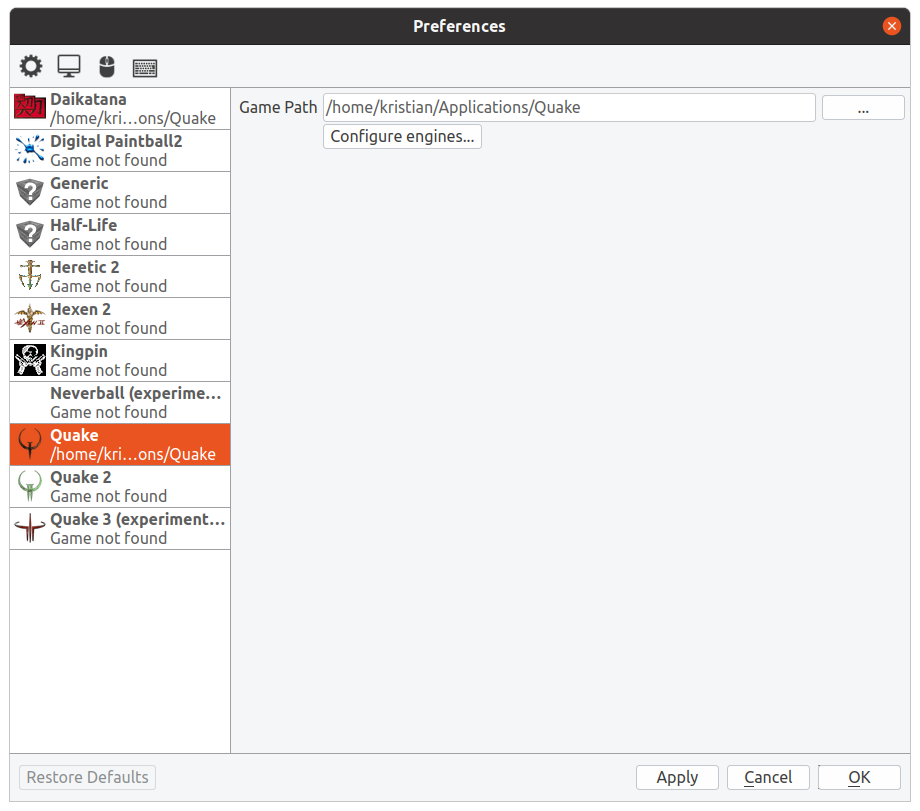
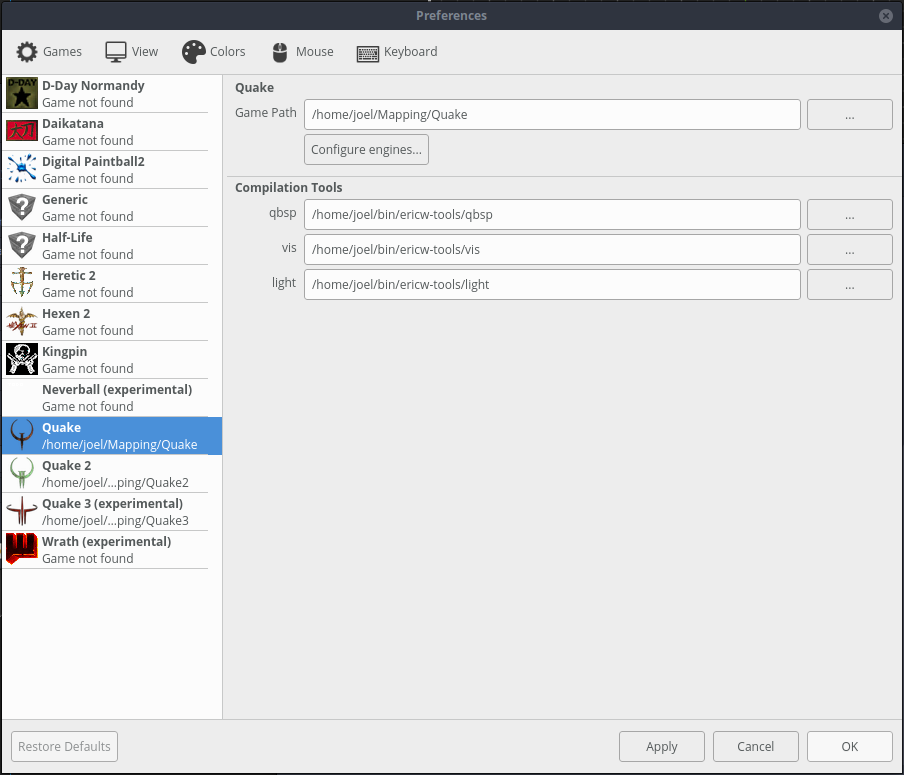
deploy: TrenchBroom/TrenchBroom@a958a758d5586647bc228e71c0e300f5266d413c

diff --git a/latest/index.html b/latest/index.html
@@ -85,7 +85,7 @@
 </nav>
 <main id="content">
 <aside id="content_version">
-<p><span><strong>Version:</strong> 0000.0</span><span><strong>Build:</strong> v0000.0 Release</span></p>
+<p><span><strong>Version:</strong> 2021.1</span><span><strong>Build:</strong> v2021.1-RC3 Release</span></p>
 </aside>
 <h1 id="introduction">Introduction</h1>
 <p>TrenchBroom is a level editing program for brush-based game engines such as Quake, Quake 2, and Hexen 2. TrenchBroom is easy to use and provides many simple and advanced tools to create complex and interesting levels with ease. This document contains the manual for TrenchBroom. Reading this document will teach you how to use TrenchBroom and how to use its advanced features.</p>
@@ -1441,6 +1441,13 @@ p1*--v1---&gt;*p3</code></pre>
 <img src="images/GameEngineDialog.png" alt="Game Engine Configuration Dialog (Mac OS X)" /><figcaption>Game Engine Configuration Dialog (Mac OS X)</figcaption>
 </figure>
 <p>In this dialog, you can add a game engine profile by clicking on the '+' button below the profile list on the left, and you can delete the selected profile by clicking on the '-' button. To the right of the list, you can edit the details of the selected game engine profile, specifically its name and path. Similar to the game path, if you edit the engine path manually, you have to apply the changes by pressing <script>print_key("Return");</script> while in the path text box. Click <a href="#launching_game_engines">here</a> to find out how to launch game engines from within TrenchBroom.</p>
+<p>For some game configurations (such as for Quake, shown above) you can also optionally enter paths for a set of compilation tools. If you do, then the name shown to the left of the path can be used as a variable in your <a href="#compiling_maps">compilation profiles</a> for this game. Wherever that variable occurs, the path specified here will be used. For example if your path to the <code>qbsp</code> tool is <code>C:\mapping\ericw-tools-v0.18.1-win64\bin\qbsp.exe</code>, and you set that path here... then in your compilation profiles you can enter <code>${qbsp}</code> wherever you need to refer to that whole qbsp.exe path.</p>
+<p>The benefits of specifying your tool paths here (if the game configuration allows) are:</p>
+<ul>
+<li>It will be easier to create, edit, and share your compilation profiles.</li>
+<li>If your tool paths need to be changed, you only have to change them here.</li>
+</ul>
+<p>So in the example above, if you wanted to try a later version of ericw-tools that are located in a different folder like <code>C:\mapping\ericw-tools-v0.19-win64\bin</code>, then you would only need to change the paths in this dialog. You wouldn't need to edit all of your compilation profiles.</p>
 <h2 id="view_layout_and_rendering">View Layout and Rendering</h2>
 <figure>
 <img src="images/ViewPreferences.png" alt="View Preferences (macOS)" /><figcaption>View Preferences (macOS)</figcaption>
@@ -1618,7 +1625,7 @@ p1*--v1---&gt;*p3</code></pre>
 </table>
 </dd>
 <dt>Run Tool</dt>
-<dd><p>Runs an external tool and captures its output.</p>
+<dd><p>Runs an external tool and captures its output. Note that for the Tool parameter's value, you can use a compilation tool variable defined in the <a href="#game_configuration">game configuration</a>, as discussed below.</p>
 <table>
 <thead>
 <tr class="header">
@@ -1712,6 +1719,10 @@ p1*--v1---&gt;*p3</code></pre>
 </tr>
 </tbody>
 </table>
+<p>If the <a href="#game_configuration">game configuration</a> for the current game includes compilation tools, then the names of those tools are also available as variables in the Tool scope. The following screenshot is a section of a compilation profile showing the use of such variables.</p>
+<figure>
+<img src="images/CompilationDialogToolVars.png" alt="Compilation Dialog Section, with Tool Variables (Ubuntu Linux)" /><figcaption>Compilation Dialog Section, with Tool Variables (Ubuntu Linux)</figcaption>
+</figure>
 <p>It is recommended to use the following general process for compiling maps and to adapt it to your specified needs:</p>
 <ol type="1">
 <li>Set the working directory to <code>${MAP_DIR_PATH}</code>.</li>
@@ -2957,6 +2968,7 @@ one point per second
 </ul></li>
 <li><strong>Tags</strong> to attach additional information to faces or brushes in the editor, e.g. whether a face is detail or hint. (optional)</li>
 <li><strong>Face attributes</strong> to specify which additional attributes to allow on brush faces (optional)</li>
+<li><strong>Compilation tools</strong> that can have their paths configured by the user (optional)</li>
 </ul>
 <p>The game configuration is an <a href="#expression_language">expression language</a> map with a specific structure, which is explained using an example.</p>
 <pre><code>{
@@ -3044,15 +3056,21 @@ one point per second
                 &quot;description&quot;: &quot;The brush is water&quot;
             }
         ]
-    }
+    },
+    &quot;compilationTools&quot;: [
+        { &quot;name&quot;: &quot;qbsp&quot; },
+        { &quot;name&quot;: &quot;vis&quot; },
+        { &quot;name&quot;: &quot;light&quot; }
+    ]
 }</code></pre>
 <h4 id="versions">Versions</h4>
 <p>The game configuration files are versioned. Whenever a breaking change to the game configuration format is introduced, the version number will increase and TrenchBroom will reject the old format with an error message.</p>
 <p><strong>Current Versions</strong></p>
-<p>TrenchBroom currently supports game config versions 3 and 4. Version 4 is identical to version 3 with two exceptions:</p>
+<p>TrenchBroom currently supports game config versions 3 and 4. Version 4 has the following changes from version 3:</p>
 <ul>
 <li>Version 4 adds support for the <code>unused</code> key in surface flags and content flags; this key does not exist in version 3.</li>
 <li>Version 4 adds support for specifying a list of values for the <code>pattern</code> key in surfaceparm-type smart tags; in version 3 only a single value is allowed.</li>
+<li>Version 4 adds the optional <code>compilationTools</code> key.</li>
 </ul>
 <p><strong>Migrating from Version 2</strong></p>
 <p>Version 3 deprecated the <code>brushtypes</code> key in favor of the <code>tags</code> key, but the contents are very similar. The value of the <code>brushtypes</code> key is an array of type matchers. The following brush type matchers are supported in version 2:</p>
@@ -3456,6 +3474,14 @@ one point per second
 <p>List values must be given in array format, e.g. a default scale of 0.5 along each axis would be specified within the <code>defaults</code> object as: <code>&quot;scale&quot;: [0.5, 0.5]</code></p>
 <p>The flag names specified for <code>surfaceFlags</code> or <code>surfaceContents</code> must correspond to the <code>name</code> value for existing flags defined in the <code>surfaceflags</code> or <code>contentflags</code> (respectively) of the <code>faceattribs</code> object.</p>
 <p>The <code>color</code> value must be a string of the form &quot;R G B&quot; or &quot;R G B A&quot;. R G B and A are each a floating-point number from 0.0 to 1.0. If A is omitted it is assumed to be 1.0.</p>
+<h4 id="compilation-tools">Compilation Tools</h4>
+<p>The optional <code>compilationTools</code> list identifies tool names that will appear in the <a href="#game_configuration">game configuration dialog</a>, allowing the user to associate these names with paths to tool executables. Such a name can be used as a variable in this game's <a href="#compiling_maps">compilation profiles</a> to represent the associated path.</p>
+<p>Each element in the list is just an object with a <code>name</code> key. An example from the Quake game configuration that defines three compilation tools:</p>
+<pre><code>&quot;compilationTools&quot;: [
+    { &quot;name&quot;: &quot;qbsp&quot;},
+    { &quot;name&quot;: &quot;vis&quot;},
+    { &quot;name&quot;: &quot;light&quot;}
+]</code></pre>
 <h1 id="getting-involved">Getting Involved</h1>
 <h2 id="suggesting-a-feature">Suggesting a Feature</h2>
 <p>If you have an idea for a nice feature that you're missing in TrenchBroom, then you can submit a request at the <a href="http://github.com/TrenchBroom/TrenchBroom/issues/">TrenchBroom issue tracker</a>. Try to describe your feature, but don't go into too much detail. If it gets picked up, we will hash out the details together.</p>
